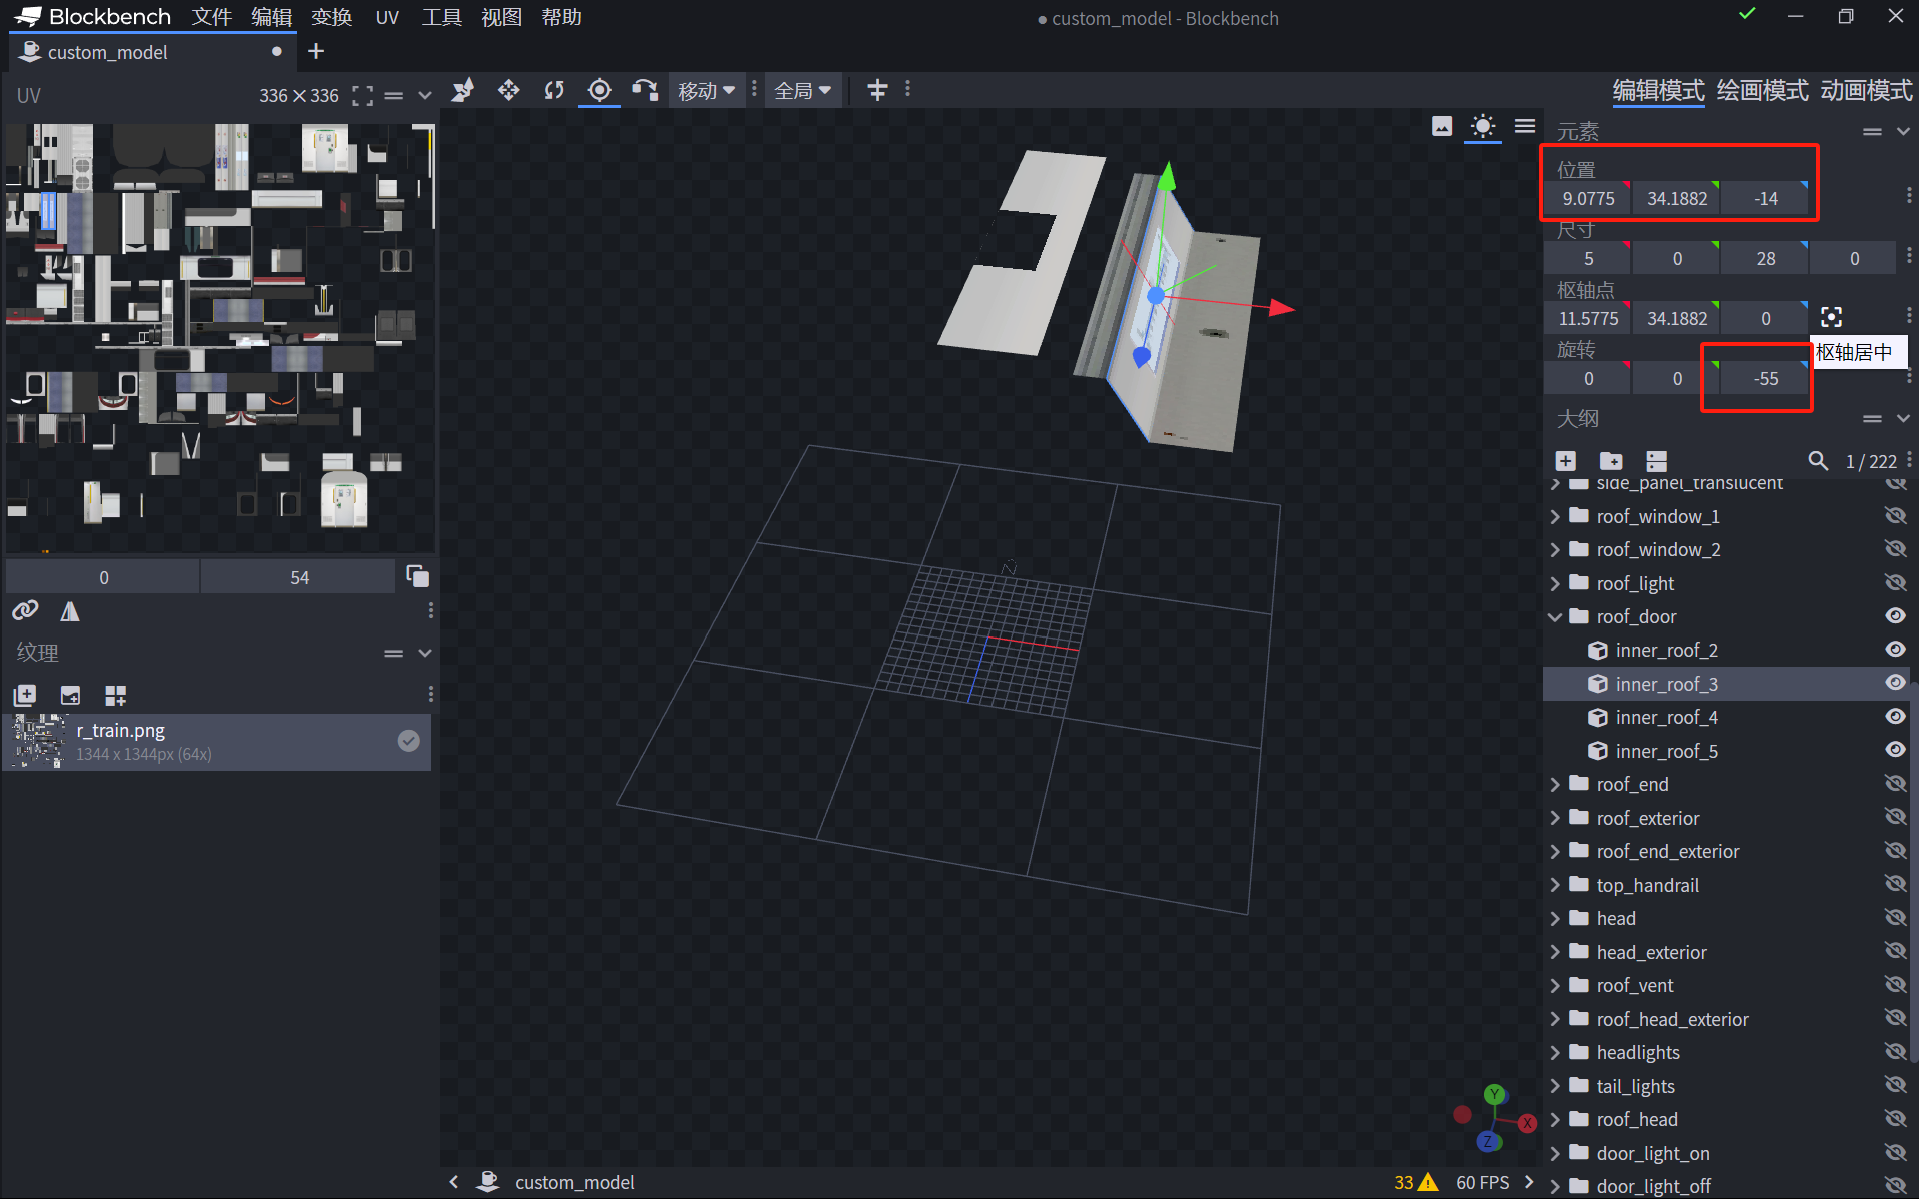
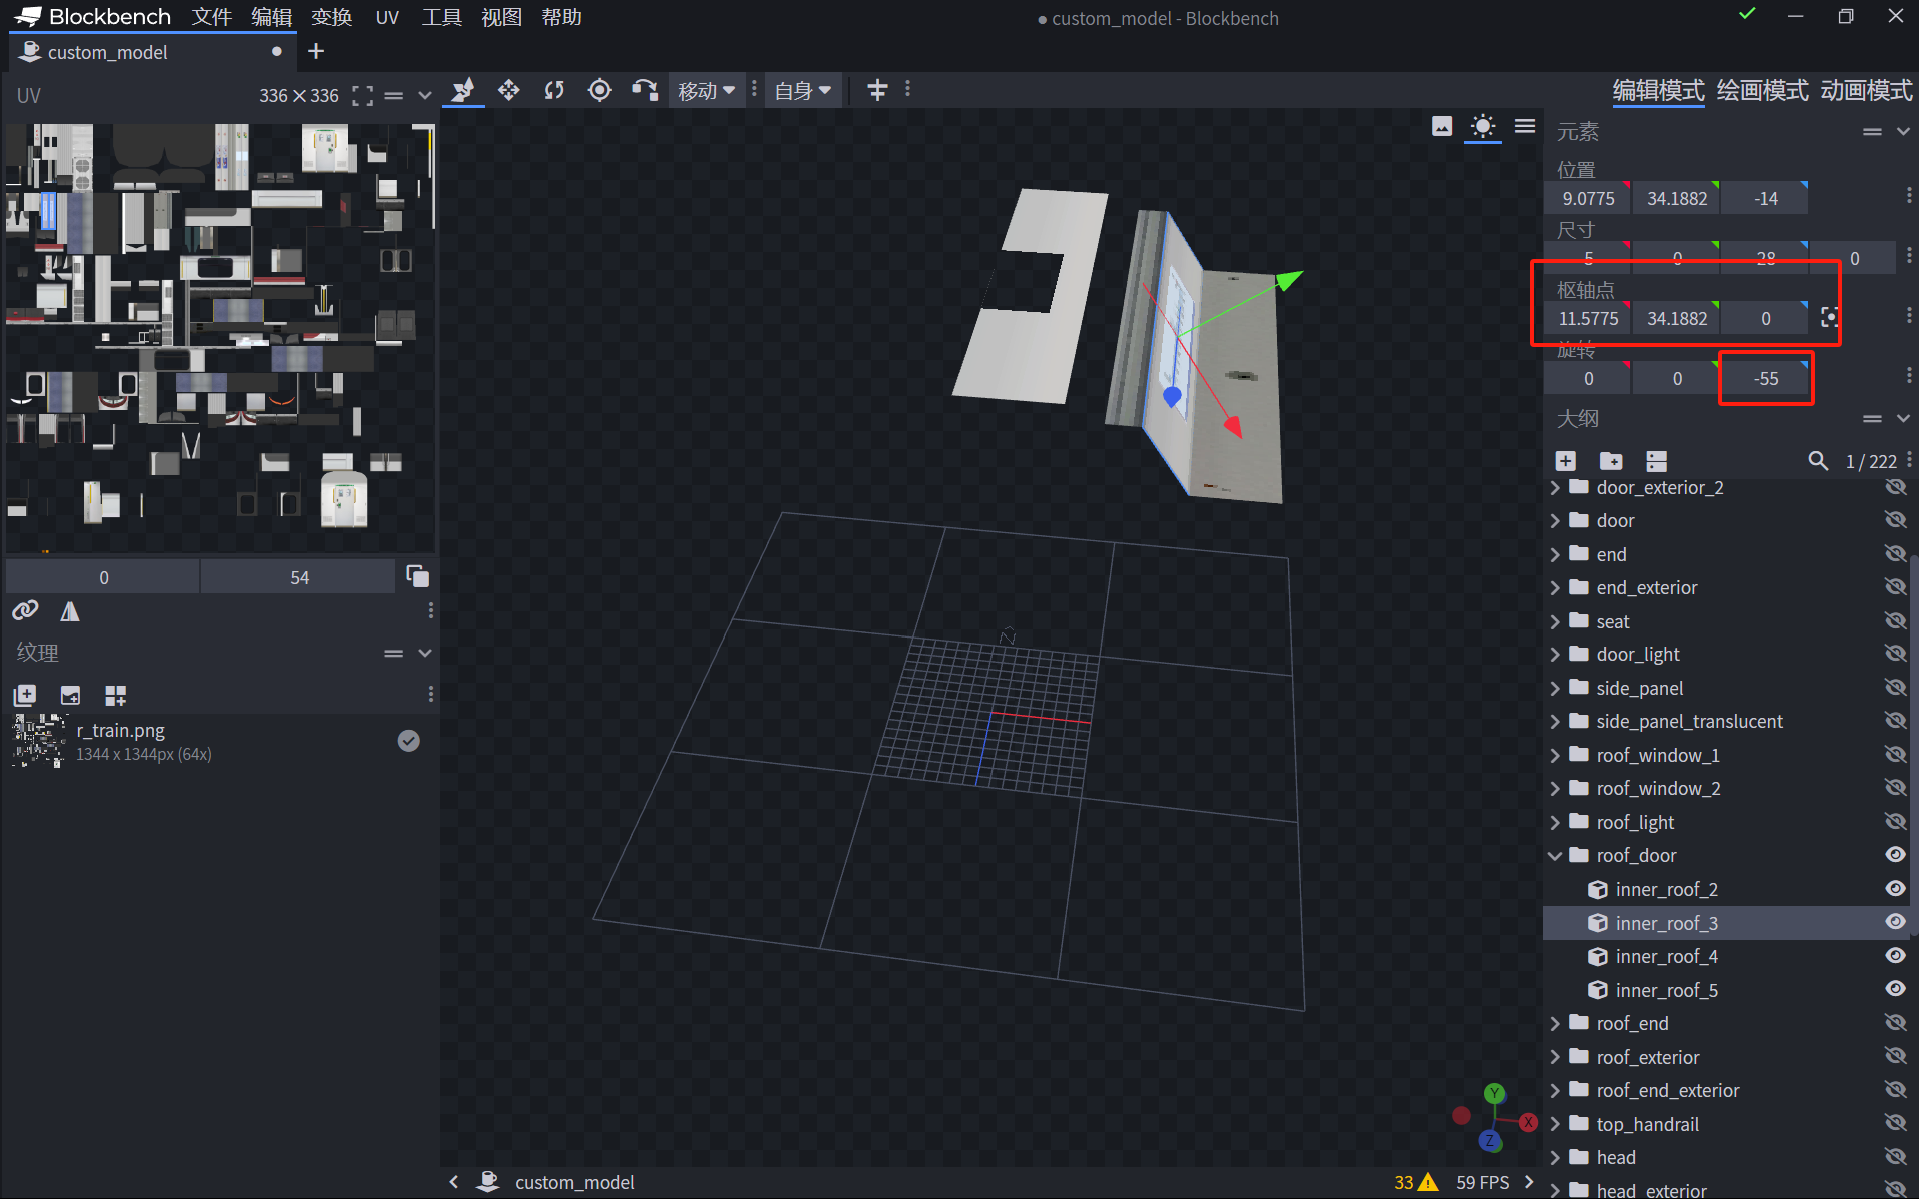
调整文档

diff --git a/docs/developer/lcda/LCDA.md b/docs/developer/lcda/LCDA.md
@@ -79,11 +79,11 @@ lcdaApply();
 将坐标系改为全局，在右侧分组中找到 `roof_head` 或类似的分组。
 ![p2](./p2.jpg)
 ![p3](./p3.jpg)
-选择位于此位置的块，点击枢轴居中，查看位置、旋转信息。
+选择位于此位置的块，点击枢轴居中，查看枢轴点位置、旋转信息。
 此时的 `-55` 即为此块的旋转角度。
 比如现在应该是 `rotateX = (90 - 55) / 180 * Math.PI`
-此时的 `9.0775, 34.1882` 即为此块的 XY 坐标(1m = 16k)。
-比如现在应该是 `doorXYPosition = [9.0775 / 16, 34.1882 / 16]`
+此时的 `11.5775, 34.1882` 即为此块的 XY 坐标(1m = 16k)。
+比如现在应该是 `doorXYPosition = [11.5775 / 16, 34.1882 / 16]`
 
 在这之后，如果位置不准确，您可以调整 `finalTranslate` 进行微调。
 您可以根据需求设置 模型大小、纹理大小、圆角像素、公司名称、公司Logo等。
